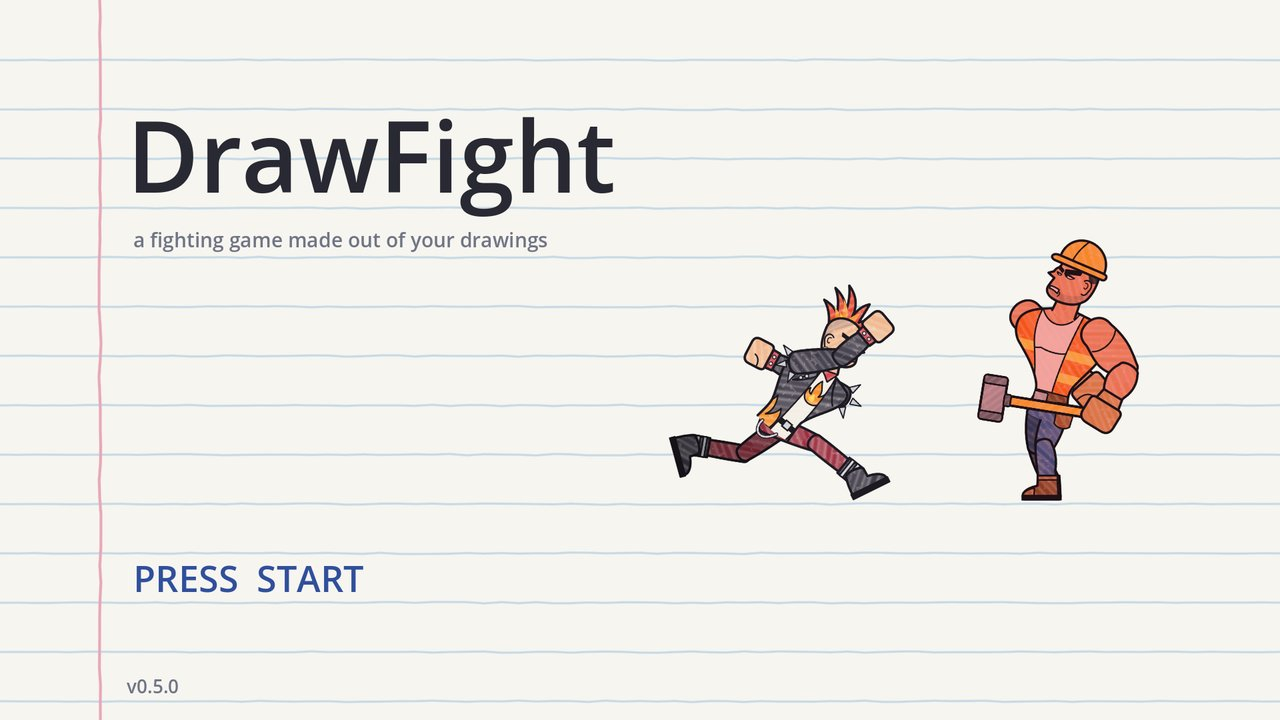
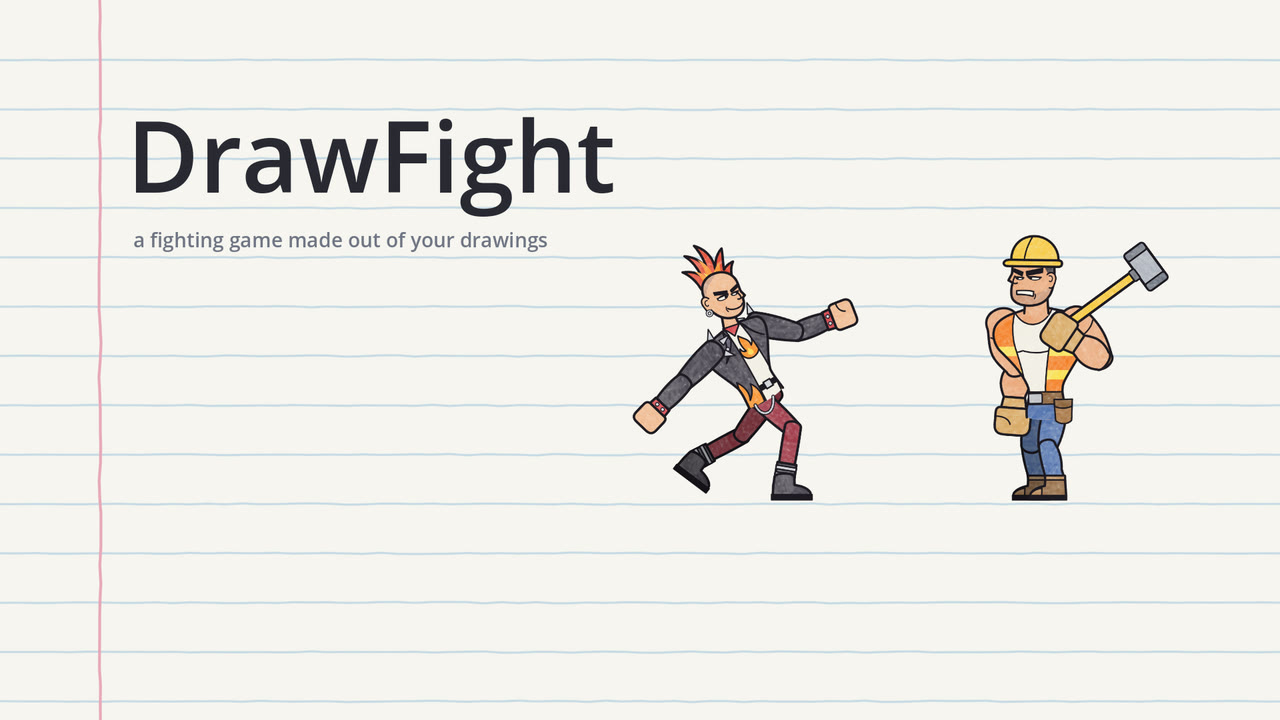
DrawFight title pictures without "PRESS START"
A fresh capture of today's title screen, with the prompt and the old
v0.5.0 label left off, for the home card and the download page (also its
share preview). The fighters have been redrawn since, so the alt text
says what this one shows.

diff --git a/src/data/projects.ts b/src/data/projects.ts
@@ -125,7 +125,7 @@ export const projects: Project[] = [
     images: [
       {
         src: dfTitleScreen,
-        alt: 'DrawFight title screen on lined notebook paper: a punk rocker lunges at a construction worker',
+        alt: 'DrawFight title screen on lined notebook paper: a punk rocker throws a punch at a construction worker holding a sledgehammer',
       },
       {
         src: dfRooftops,
